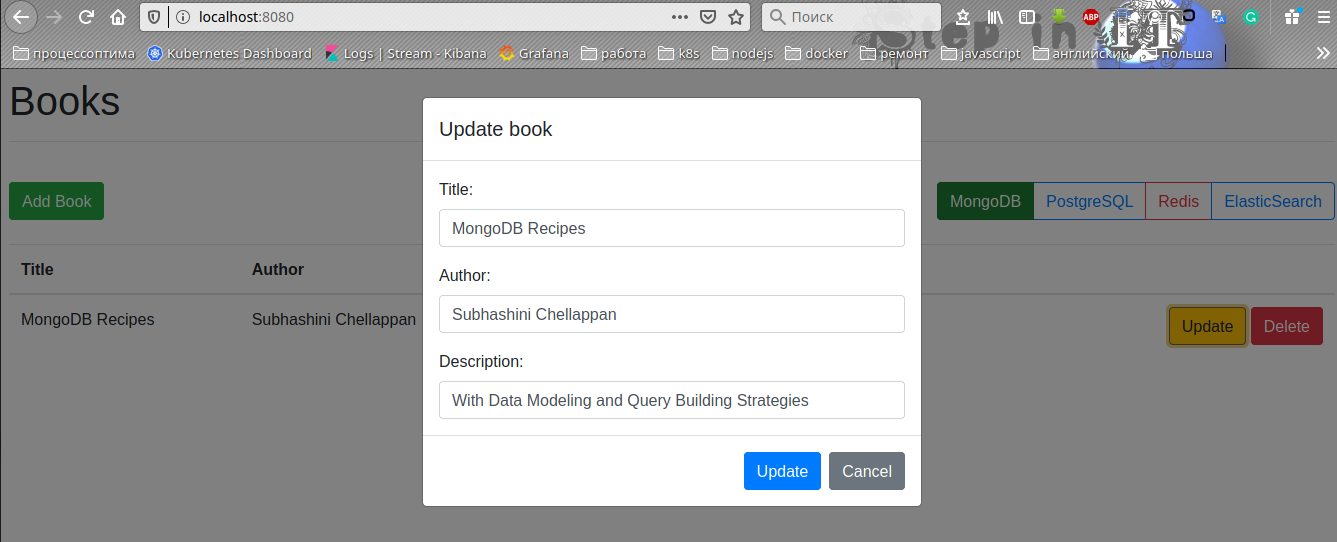
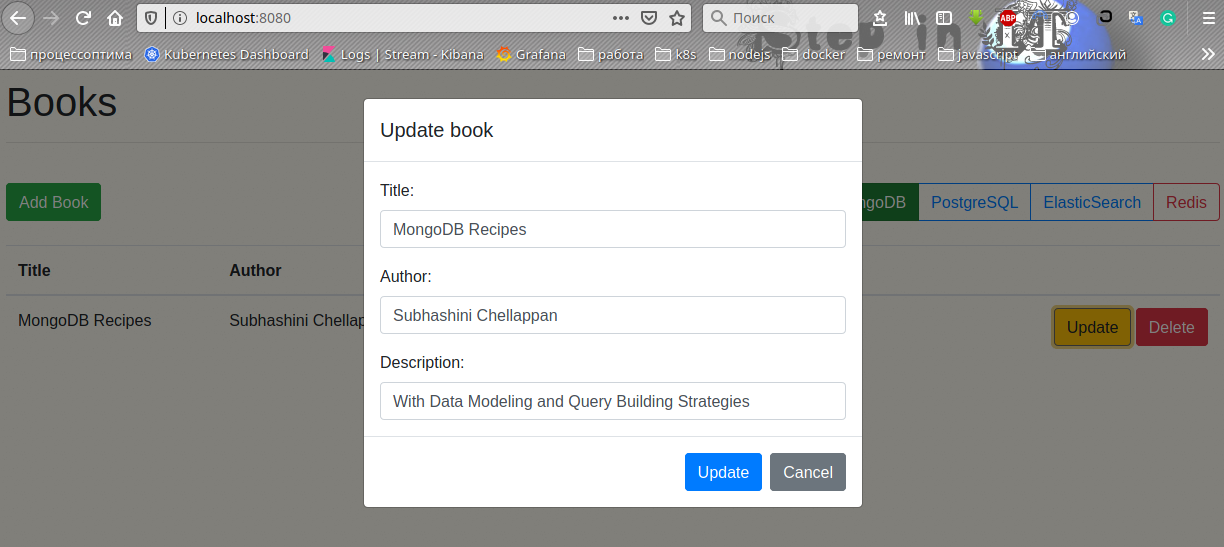
some style improvements

diff --git a/frontend/src/App.html b/frontend/src/App.html
@@ -163,6 +163,12 @@
 	<link rel="stylesheet" href="https://stackpath.bootstrapcdn.com/bootstrap/4.3.1/css/bootstrap.min.css">
 </svelte:head>
 
+<style>
+	:global(body) {
[1 lines of base64/hex data omitted]
+	}
+</style>
+
 <div>
 	<div class="row">
 		<div class="col-sm-12">
@@ -173,8 +179,8 @@
 				<ButtonGroup>
 					<Button color="success" active={mongoactive} outline={!mongoactive} on:click={setMongo}>MongoDB</Button>
 					<Button color="primary" active={postgresactive} outline={!postgresactive} on:click={setPostgres}>PostgreSQL</Button>
-					<Button color="danger" active={redisactive} outline={!redisactive} on:click={setRedis}>Redis</Button>
 					<Button color="primary" active={esactive} outline={!esactive} on:click={setEs}>ElasticSearch</Button>
+					<Button color="danger" active={redisactive} outline={!redisactive} on:click={setRedis}>Redis</Button>
 				</ButtonGroup>
 			</span>
 			<br><br>
